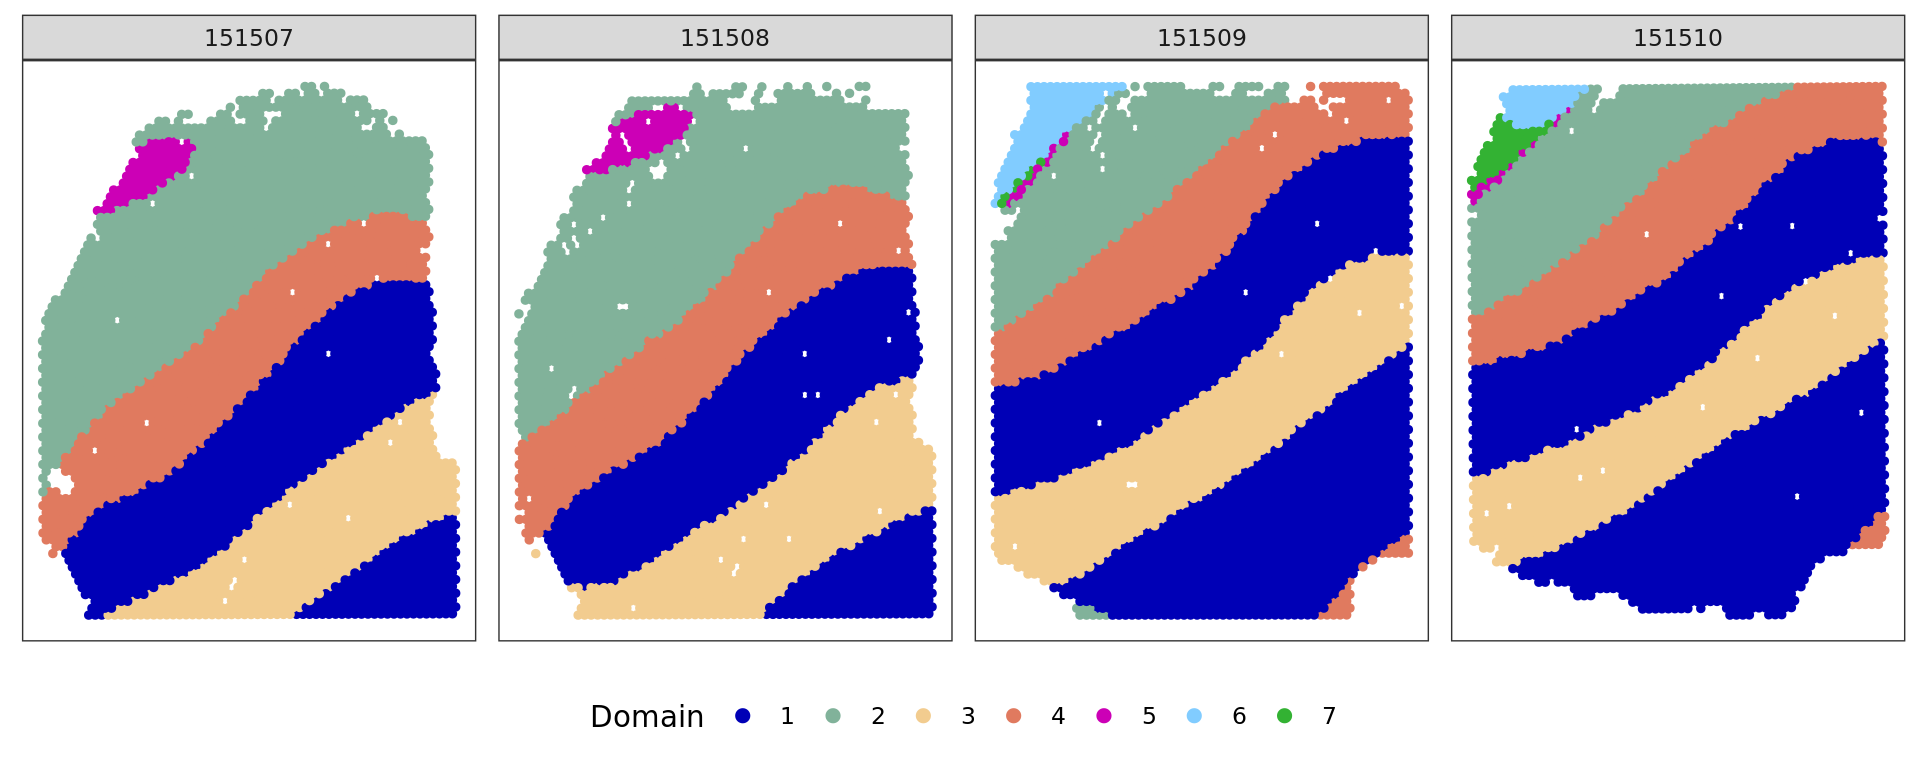
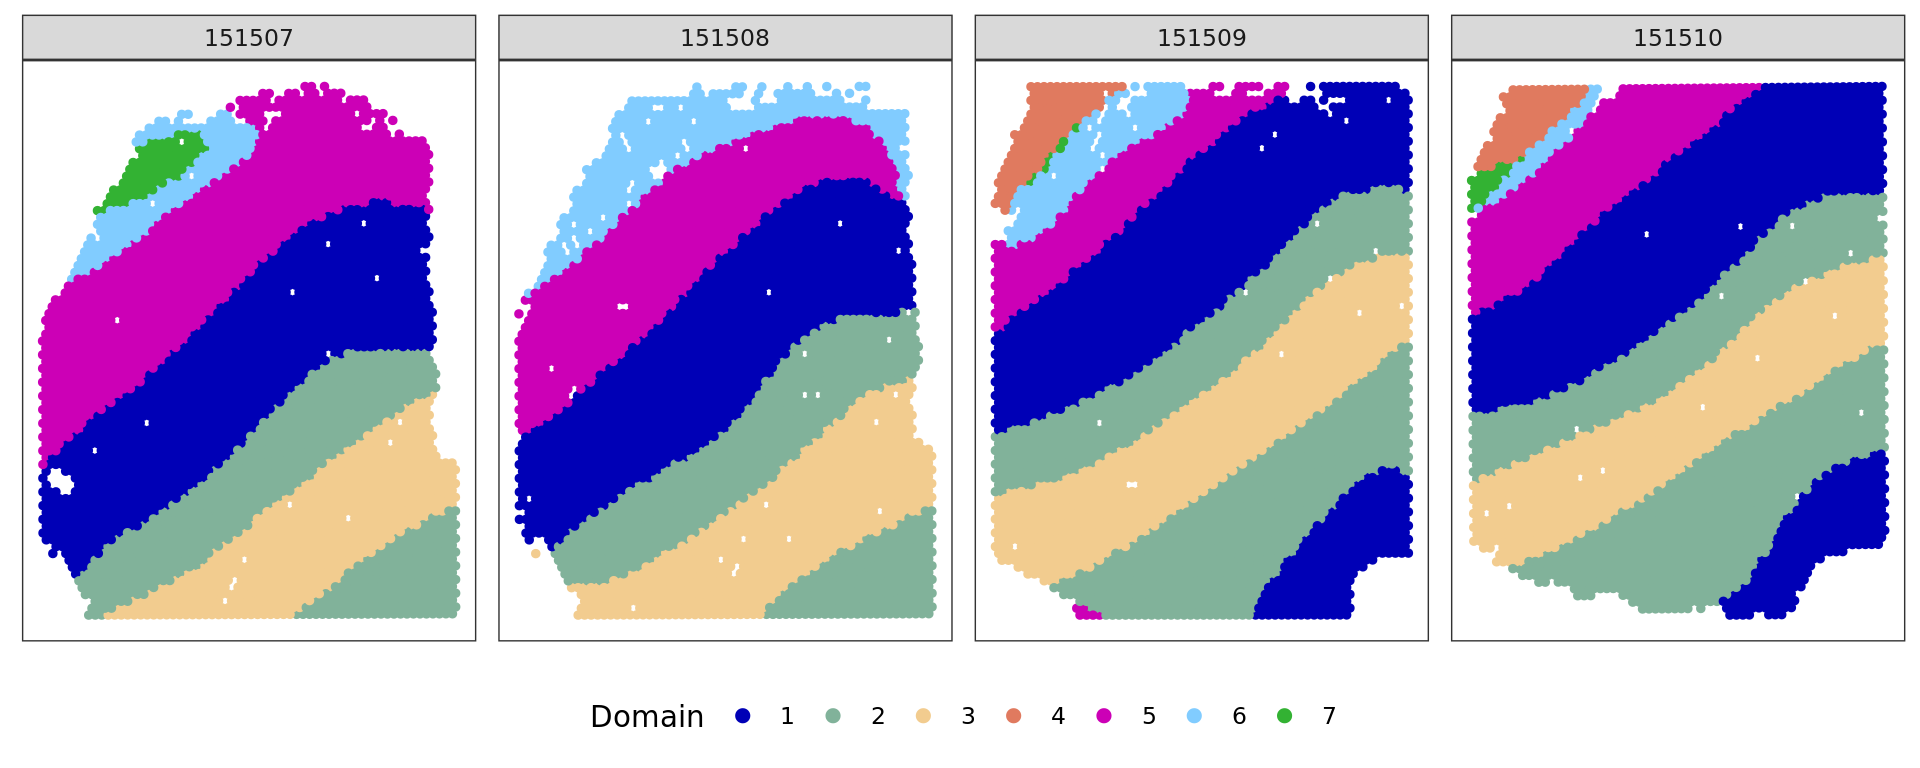
Build site.

diff --git a/docs/D1.html b/docs/D1.html
@@ -562,15 +562,15 @@ project makes it easier to run your code on other machines.</p>
 <div class="panel panel-default">
 <div class="panel-heading">
 <p class="panel-title">
-<a data-toggle="collapse" data-parent="#workflowr-checks" href="#strongRepositoryversionstrongahrefhttpsgithubcomtkcacciaKODAMAAnalysistree34d1698617ac4d805e830d91f839310605373c43targetblank34d1698a">
+<a data-toggle="collapse" data-parent="#workflowr-checks" href="#strongRepositoryversionstrongahrefhttpsgithubcomtkcacciaKODAMAAnalysistreeddd3269914ef523ddc7651732f0dbf416029d582targetblankddd3269a">
 <span class="glyphicon glyphicon-ok text-success"
 aria-hidden="true"></span> <strong>Repository version:</strong>
-<a href="https://github.com/tkcaccia/KODAMA-Analysis/tree/34d1698617ac4d805e830d91f839310605373c43" target="_blank">34d1698</a>
+<a href="https://github.com/tkcaccia/KODAMA-Analysis/tree/ddd3269914ef523ddc7651732f0dbf416029d582" target="_blank">ddd3269</a>
 </a>
 </p>
 </div>
 <div
[2 lines of base64/hex data omitted]
 class="panel-collapse collapse">
 <div class="panel-body">
 <p>
@@ -580,7 +580,7 @@ reproducibility.
 </p>
 <p>
 The results in this page were generated with repository version
-<a href="https://github.com/tkcaccia/KODAMA-Analysis/tree/34d1698617ac4d805e830d91f839310605373c43" target="_blank">34d1698</a>.
+<a href="https://github.com/tkcaccia/KODAMA-Analysis/tree/ddd3269914ef523ddc7651732f0dbf416029d582" target="_blank">ddd3269</a>.
 See the <em>Past versions</em> tab to see a history of the changes made
 to the R Markdown and HTML files.
 </p>
@@ -706,6 +706,40 @@ Message
 Rmd
 </td>
 <td>
+<a href="https://github.com/tkcaccia/KODAMA-Analysis/blob/ddd3269914ef523ddc7651732f0dbf416029d582/analysis/D1.Rmd" target="_blank">ddd3269</a>
+</td>
+<td>
+Stefano Cacciatore
+</td>
+<td>
+2024-12-04
+</td>
+<td>
+Start my new project
+</td>
+</tr>
+<tr>
+<td>
+html
+</td>
+<td>
+<a href="https://rawcdn.githack.com/tkcaccia/KODAMA-Analysis/f2d11a1ec9df4a945111258ecba321a4d81a2dd7/docs/D1.html" target="_blank">f2d11a1</a>
+</td>
+<td>
+Stefano Cacciatore
+</td>
+<td>
+2024-12-04
+</td>
+<td>
+Build site.
+</td>
+</tr>
+<tr>
+<td>
+Rmd
+</td>
+<td>
 <a href="https://github.com/tkcaccia/KODAMA-Analysis/blob/34d1698617ac4d805e830d91f839310605373c43/analysis/D1.Rmd" target="_blank">34d1698</a>
 </td>
 <td>
@@ -795,7 +829,7 @@ spatial.resolution = 0.3
 aa_noise=3
 gene_number=2000
 graph = 20
-seed=1
+seed=1234
 
 
 set.seed(seed)
@@ -987,6 +1021,17 @@ Date
 <tbody>
 <tr>
 <td>
+<a href="https://github.com/tkcaccia/KODAMA-Analysis/blob/f2d11a1ec9df4a945111258ecba321a4d81a2dd7/docs/figure/D1.Rmd/unnamed-chunk-6-1.png" target="_blank">f2d11a1</a>
+</td>
+<td>
+Stefano Cacciatore
+</td>
+<td>
+2024-12-04
+</td>
+</tr>
+<tr>
+<td>
 <a href="https://github.com/tkcaccia/KODAMA-Analysis/blob/573f2d9c348897c8d93f8abdd40cc301932ea003/docs/figure/D1.Rmd/unnamed-chunk-6-1.png" target="_blank">573f2d9</a>
 </td>
 <td>
@@ -1055,6 +1100,17 @@ Date
 <tbody>
 <tr>
 <td>
+<a href="https://github.com/tkcaccia/KODAMA-Analysis/blob/f2d11a1ec9df4a945111258ecba321a4d81a2dd7/docs/figure/D1.Rmd/unnamed-chunk-7-1.png" target="_blank">f2d11a1</a>
+</td>
+<td>
+Stefano Cacciatore
+</td>
+<td>
+2024-12-04
+</td>
+</tr>
+<tr>
+<td>
 <a href="https://github.com/tkcaccia/KODAMA-Analysis/blob/573f2d9c348897c8d93f8abdd40cc301932ea003/docs/figure/D1.Rmd/unnamed-chunk-7-1.png" target="_blank">573f2d9</a>
 </td>
 <td>
@@ -1102,6 +1158,17 @@ Date
 <tbody>
 <tr>
 <td>
+<a href="https://github.com/tkcaccia/KODAMA-Analysis/blob/f2d11a1ec9df4a945111258ecba321a4d81a2dd7/docs/figure/D1.Rmd/unnamed-chunk-8-1.png" target="_blank">f2d11a1</a>
+</td>
+<td>
+Stefano Cacciatore
+</td>
+<td>
+2024-12-04
+</td>
+</tr>
+<tr>
+<td>
 <a href="https://github.com/tkcaccia/KODAMA-Analysis/blob/573f2d9c348897c8d93f8abdd40cc301932ea003/docs/figure/D1.Rmd/unnamed-chunk-8-1.png" target="_blank">573f2d9</a>
 </td>
 <td>
@@ -1142,6 +1209,17 @@ Date
 </tr>
 </thead>
 <tbody>
+<tr>
+<td>
+<a href="https://github.com/tkcaccia/KODAMA-Analysis/blob/f2d11a1ec9df4a945111258ecba321a4d81a2dd7/docs/figure/D1.Rmd/unnamed-chunk-8-2.png" target="_blank">f2d11a1</a>
+</td>
+<td>
+Stefano Cacciatore
+</td>
+<td>
+2024-12-04
+</td>
+</tr>
 <tr>
 <td>
 <a href="https://github.com/tkcaccia/KODAMA-Analysis/blob/573f2d9c348897c8d93f8abdd40cc301932ea003/docs/figure/D1.Rmd/unnamed-chunk-8-2.png" target="_blank">573f2d9</a>
@@ -1195,6 +1273,17 @@ Date
 <tbody>
 <tr>
 <td>
+<a href="https://github.com/tkcaccia/KODAMA-Analysis/blob/f2d11a1ec9df4a945111258ecba321a4d81a2dd7/docs/figure/D1.Rmd/unnamed-chunk-8-3.png" target="_blank">f2d11a1</a>
+</td>
+<td>
+Stefano Cacciatore
+</td>
+<td>
+2024-12-04
+</td>
+</tr>
+<tr>
+<td>
 <a href="https://github.com/tkcaccia/KODAMA-Analysis/blob/573f2d9c348897c8d93f8abdd40cc301932ea003/docs/figure/D1.Rmd/unnamed-chunk-8-3.png" target="_blank">573f2d9</a>
 </td>
 <td>
@@ -1218,10 +1307,10 @@ for(j in u){
   sel=samples[selFB]==j
   print(mclust::adjustedRandIndex(labels[selFB][sel],ref[sel]))
 }</code></pre>
-<pre><code>[1] 0.4724975
-[1] 0.4347262
-[1] 0.5719451
-[1] 0.574022</code></pre>
+<pre><code>[1] 0.7675441
+[1] 0.7626335
+[1] 0.8215839
+[1] 0.7252206</code></pre>
 <pre class="r"><code>      ###########
       
     
@@ -1292,6 +1381,17 @@ Date
 </tr>
 </thead>
 <tbody>
+<tr>
+<td>
+<a href="https://github.com/tkcaccia/KODAMA-Analysis/blob/f2d11a1ec9df4a945111258ecba321a4d81a2dd7/docs/figure/D1.Rmd/unnamed-chunk-8-5.png" target="_blank">f2d11a1</a>
+</td>
+<td>
+Stefano Cacciatore
+</td>
+<td>
+2024-12-04
+</td>
+</tr>
 <tr>
 <td>
 <a href="https://github.com/tkcaccia/KODAMA-Analysis/blob/573f2d9c348897c8d93f8abdd40cc301932ea003/docs/figure/D1.Rmd/unnamed-chunk-8-5.png" target="_blank">573f2d9</a>
@@ -1447,6 +1547,17 @@ Date
 <tbody>
 <tr>
 <td>
+<a href="https://github.com/tkcaccia/KODAMA-Analysis/blob/f2d11a1ec9df4a945111258ecba321a4d81a2dd7/docs/figure/D1.Rmd/unnamed-chunk-10-1.png" target="_blank">f2d11a1</a>
+</td>
+<td>
+Stefano Cacciatore
+</td>
+<td>
+2024-12-04
+</td>
+</tr>
+<tr>
+<td>
 <a href="https://github.com/tkcaccia/KODAMA-Analysis/blob/573f2d9c348897c8d93f8abdd40cc301932ea003/docs/figure/D1.Rmd/unnamed-chunk-10-1.png" target="_blank">573f2d9</a>
 </td>
 <td>
@@ -1498,6 +1609,17 @@ Date
 <tbody>
 <tr>
 <td>
+<a href="https://github.com/tkcaccia/KODAMA-Analysis/blob/f2d11a1ec9df4a945111258ecba321a4d81a2dd7/docs/figure/D1.Rmd/unnamed-chunk-11-1.png" target="_blank">f2d11a1</a>
+</td>
+<td>
+Stefano Cacciatore
+</td>
+<td>
+2024-12-04
+</td>
+</tr>
+<tr>
+<td>
 <a href="https://github.com/tkcaccia/KODAMA-Analysis/blob/573f2d9c348897c8d93f8abdd40cc301932ea003/docs/figure/D1.Rmd/unnamed-chunk-11-1.png" target="_blank">573f2d9</a>
 </td>
 <td>
@@ -1522,10 +1644,10 @@ Stefano Cacciatore
           
             print(mclust::adjustedRandIndex(labels[sel],ref[sel]))
         }</code></pre>
-<pre><code>[1] 0.4470146
-[1] 0.490725
-[1] 0.456626
-[1] 0.399143</code></pre>
+<pre><code>[1] 0.4747209
+[1] 0.478756
+[1] 0.4966557
+[1] 0.4931604</code></pre>
 <pre class="r"><code>        ###########
 
           g &lt;- bluster::makeSNNGraph(as.matrix(kk_UMAP), k = graph)
@@ -1542,10 +1664,10 @@ Stefano Cacciatore
             sel=samples==j
             print(mclust::adjustedRandIndex(labels[sel],ref[sel]))
           }</code></pre>
-<pre><code>[1] 0.4470146
-[1] 0.490725
-[1] 0.456626
-[1] 0.399143</code></pre>
+<pre><code>[1] 0.4747209
+[1] 0.478756
+[1] 0.4966557
+[1] 0.4931604</code></pre>
 <pre class="r"><code>      ###########
       
     
@@ -1616,6 +1738,17 @@ Date
 </tr>
 </thead>
 <tbody>
+<tr>
+<td>
+<a href="https://github.com/tkcaccia/KODAMA-Analysis/blob/f2d11a1ec9df4a945111258ecba321a4d81a2dd7/docs/figure/D1.Rmd/unnamed-chunk-11-3.png" target="_blank">f2d11a1</a>
+</td>
+<td>
+Stefano Cacciatore
+</td>
+<td>
+2024-12-04
+</td>
+</tr>
 <tr>
 <td>
 <a href="https://github.com/tkcaccia/KODAMA-Analysis/blob/573f2d9c348897c8d93f8abdd40cc301932ea003/docs/figure/D1.Rmd/unnamed-chunk-11-3.png" target="_blank">573f2d9</a>
@@ -1705,6 +1838,17 @@ Date
 <tbody>
 <tr>
 <td>
+<a href="https://github.com/tkcaccia/KODAMA-Analysis/blob/f2d11a1ec9df4a945111258ecba321a4d81a2dd7/docs/figure/D1.Rmd/unnamed-chunk-12-1.png" target="_blank">f2d11a1</a>
+</td>
+<td>
+Stefano Cacciatore
+</td>
+<td>
+2024-12-04
+</td>
+</tr>
+<tr>
+<td>
 <a href="https://github.com/tkcaccia/KODAMA-Analysis/blob/573f2d9c348897c8d93f8abdd40cc301932ea003/docs/figure/D1.Rmd/unnamed-chunk-12-1.png" target="_blank">573f2d9</a>
 </td>
 <td>
@@ -1773,6 +1917,17 @@ Date
 <tbody>
 <tr>
 <td>
+<a href="https://github.com/tkcaccia/KODAMA-Analysis/blob/f2d11a1ec9df4a945111258ecba321a4d81a2dd7/docs/figure/D1.Rmd/unnamed-chunk-13-1.png" target="_blank">f2d11a1</a>
+</td>
+<td>
+Stefano Cacciatore
+</td>
+<td>
+2024-12-04
+</td>
+</tr>
+<tr>
+<td>
 <a href="https://github.com/tkcaccia/KODAMA-Analysis/blob/573f2d9c348897c8d93f8abdd40cc301932ea003/docs/figure/D1.Rmd/unnamed-chunk-13-1.png" target="_blank">573f2d9</a>
 </td>
 <td>
@@ -1808,10 +1963,10 @@ Stefano Cacciatore
           
             print(mclust::adjustedRandIndex(labels[sel],ref[sel]))
         }</code></pre>
-<pre><code>[1] 0.5184305
-[1] 0.5572149
-[1] 0.5482878
-[1] 0.5218558</code></pre>
+<pre><code>[1] 0.4478886
+[1] 0.5460531
+[1] 0.5451059
+[1] 0.496571</code></pre>
 <pre class="r"><code>        ###########
 
           g &lt;- bluster::makeSNNGraph(as.matrix(kk_UMAP), k = graph)
@@ -1845,6 +2000,17 @@ Date
 <tbody>
 <tr>
 <td>
+<a href="https://github.com/tkcaccia/KODAMA-Analysis/blob/f2d11a1ec9df4a945111258ecba321a4d81a2dd7/docs/figure/D1.Rmd/unnamed-chunk-14-1.png" target="_blank">f2d11a1</a>
+</td>
+<td>
+Stefano Cacciatore
+</td>
+<td>
+2024-12-04
+</td>
+</tr>
+<tr>
+<td>
 <a href="https://github.com/tkcaccia/KODAMA-Analysis/blob/573f2d9c348897c8d93f8abdd40cc301932ea003/docs/figure/D1.Rmd/unnamed-chunk-14-1.png" target="_blank">573f2d9</a>
 </td>
 <td>
@@ -1868,10 +2034,10 @@ Stefano Cacciatore
             sel=samples==j
             print(mclust::adjustedRandIndex(labels[sel],ref[sel]))
           }</code></pre>
-<pre><code>[1] 0.5184305
-[1] 0.5572149
-[1] 0.5482878
-[1] 0.5218558</code></pre>
+<pre><code>[1] 0.4478886
+[1] 0.5460531
+[1] 0.5451059
+[1] 0.496571</code></pre>
 <pre class="r"><code>      ###########
       
     
@@ -1942,6 +2108,17 @@ Date
 </tr>
 </thead>
 <tbody>
+<tr>
+<td>
+<a href="https://github.com/tkcaccia/KODAMA-Analysis/blob/f2d11a1ec9df4a945111258ecba321a4d81a2dd7/docs/figure/D1.Rmd/unnamed-chunk-14-3.png" target="_blank">f2d11a1</a>
+</td>
+<td>
+Stefano Cacciatore
+</td>
+<td>
+2024-12-04
+</td>
+</tr>
 <tr>
 <td>
 <a href="https://github.com/tkcaccia/KODAMA-Analysis/blob/573f2d9c348897c8d93f8abdd40cc301932ea003/docs/figure/D1.Rmd/unnamed-chunk-14-3.png" target="_blank">573f2d9</a>
